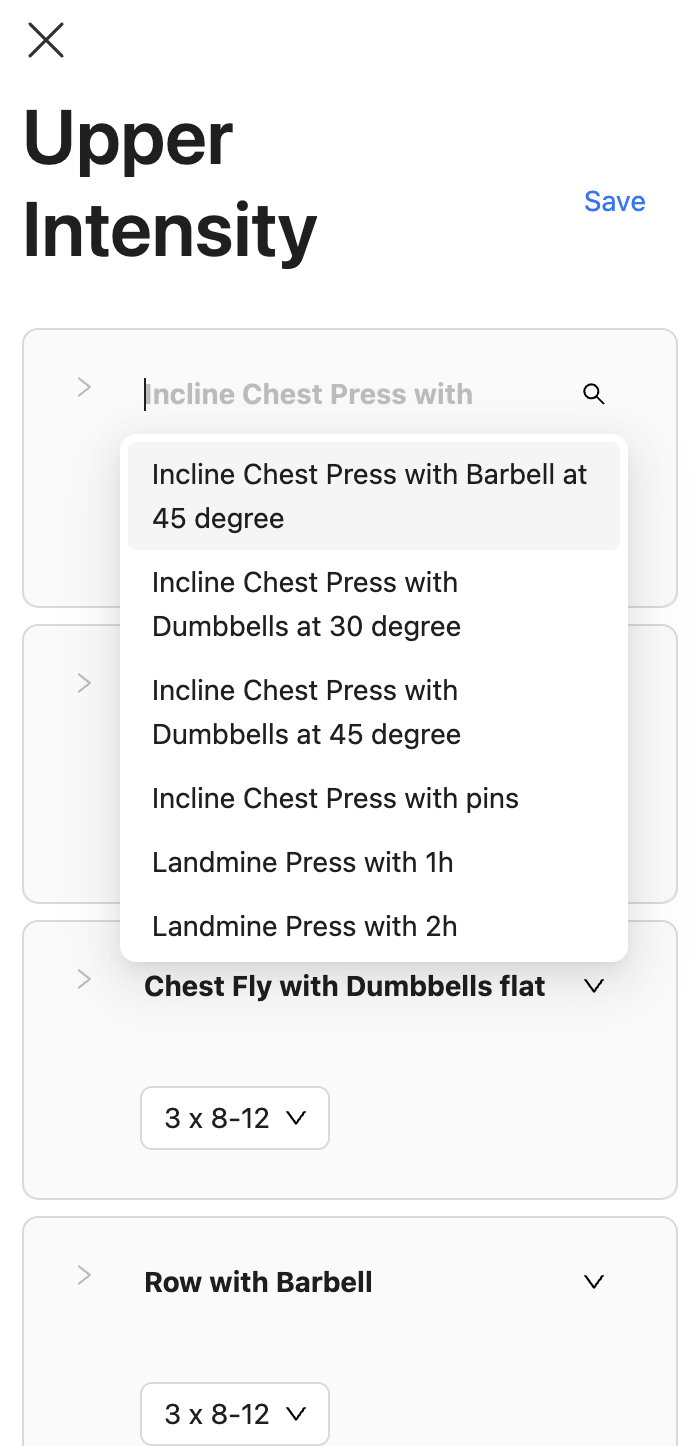
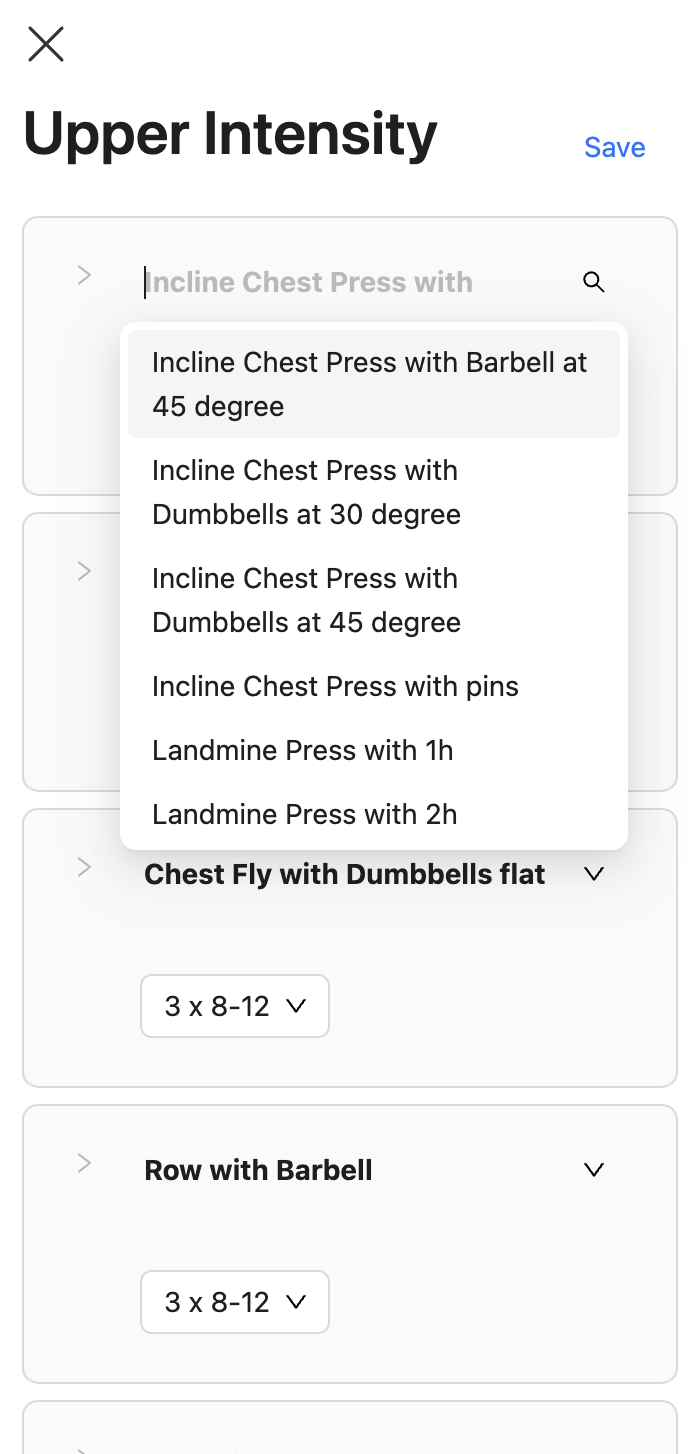
lower header size

diff --git a/frontend/src/pages/common/Header.tsx b/frontend/src/pages/common/Header.tsx
@@ -22,7 +22,7 @@ const Header: React.FC<HeaderProps> = ({ title, rightHandSide }) => {
     <HeaderContainer direction="vertical">
       <RxCross1 onClick={onClickBack} size={24} />
       <TitleContainer>
-        <Title>{title}</Title>
+        <Title level={2}>{title}</Title>
         {rightHandSide}
       </TitleContainer>
     </HeaderContainer>
